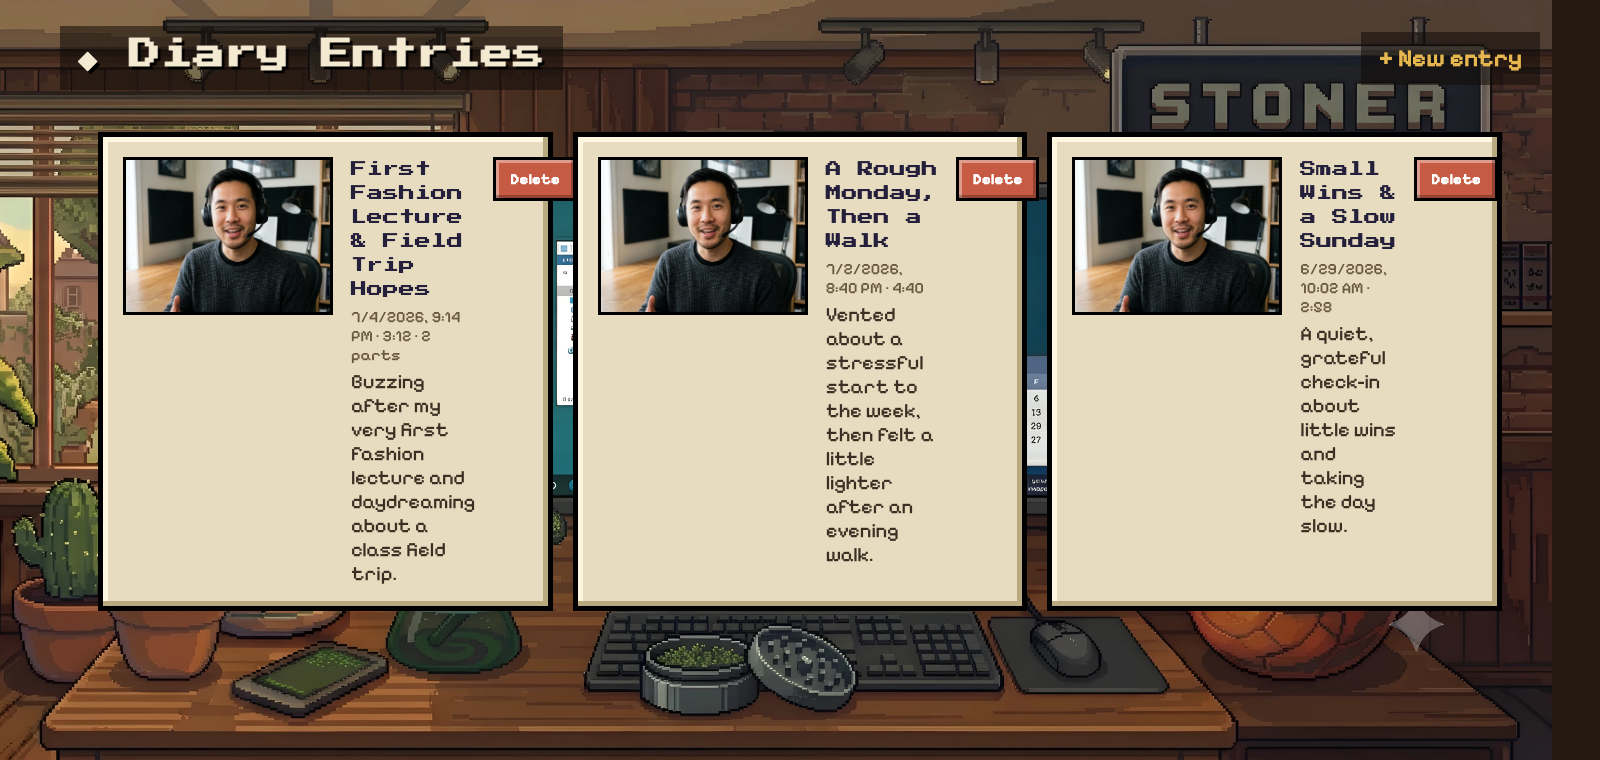
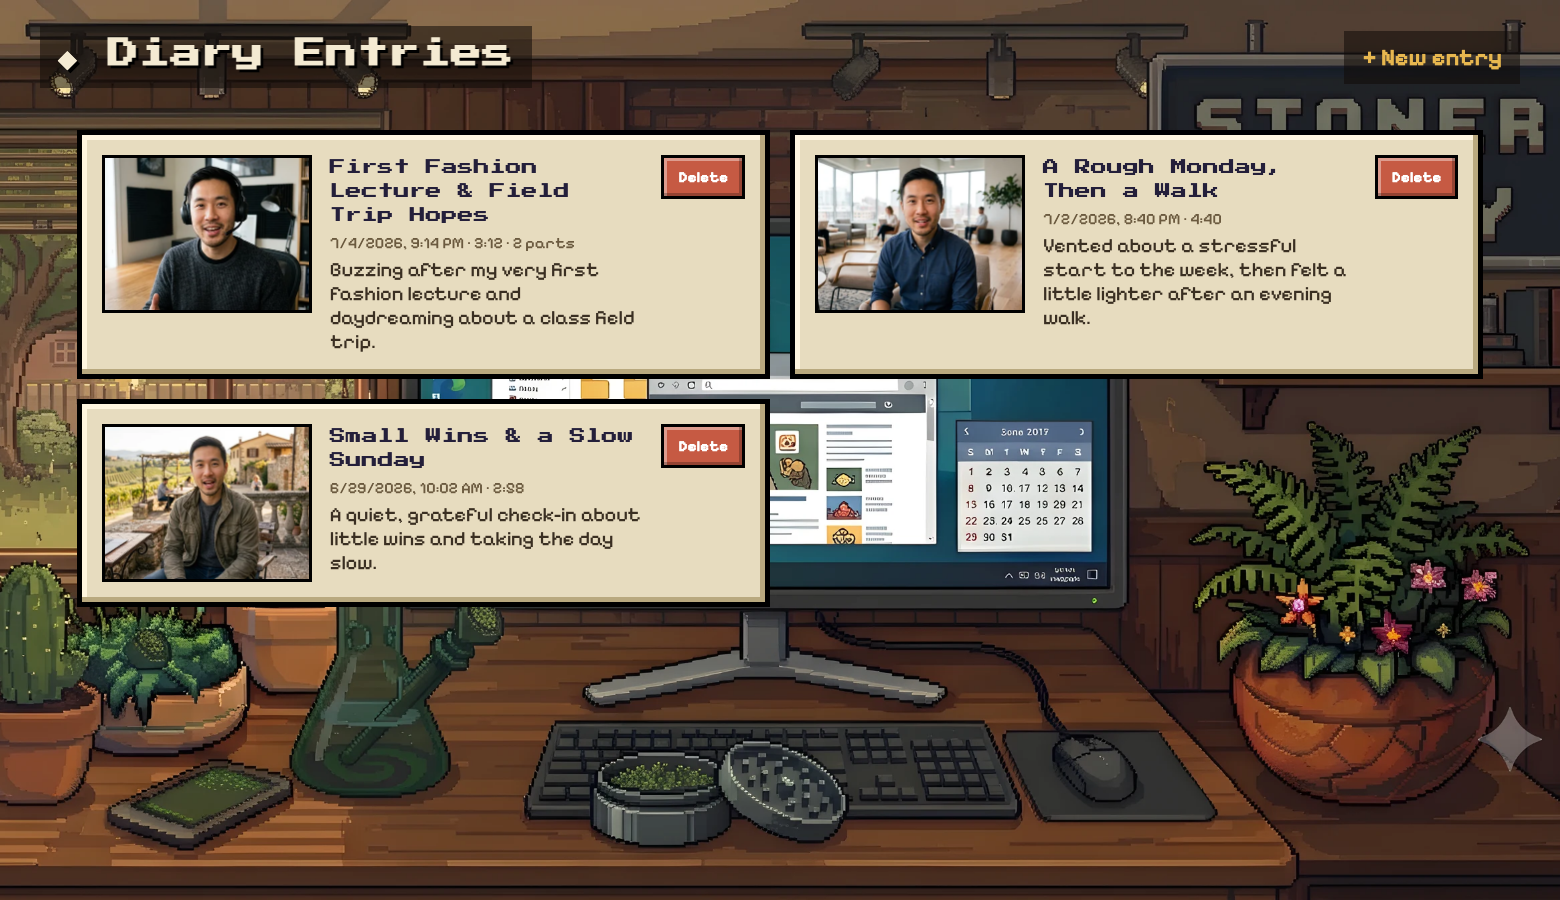
Fix library card layout (Delete button no longer overflows) + varied demo thumbnails
- Widen entry cards to 2 roomy columns and let the text column shrink, so the
  Delete button stays inside the card and long titles no longer crowd it
- README: use 3 different demo photos for the library thumbnails; quote 'Past entries'

diff --git a/public/styles.css b/public/styles.css
@@ -391,7 +391,7 @@ footer {
 /* ===== Library ======================================================== */
 .list {
   display: grid;
-  grid-template-columns: repeat(auto-fill, minmax(440px, 1fr));
+  grid-template-columns: repeat(auto-fill, minmax(520px, 1fr));
   gap: 20px;
   margin-top: 26px;
 }
@@ -419,7 +419,10 @@ footer {
   cursor: pointer;
   flex: none;
 }
-.card-main { display: grid; gap: 6px; flex: 1; cursor: pointer; }
+/* min-width:0 lets the text column shrink & wrap so the Delete button never
+   gets pushed outside the card on narrow (multi-column) layouts. */
+.card-main { display: grid; gap: 6px; flex: 1; min-width: 0; cursor: pointer; }
+.card-del { flex: none; align-self: flex-start; }
 .card-title {
   font-family: 'Press Start 2P', monospace;
   font-size: 16px;

diff --git a/README.md b/README.md
@@ -138,7 +138,7 @@ To stop the app, press **`Ctrl + C`** in the terminal.
 
 ![The spaceship scene — your webcam on the console screen, mid-interview](docs/interview.png)
 
-**Your saved entries live under _Past entries_:**
+**Your saved entries live under "Past entries":**
 
 ![The Past-entries library, showing saved diary cards with thumbnails, dates and summaries](docs/library.png)
 